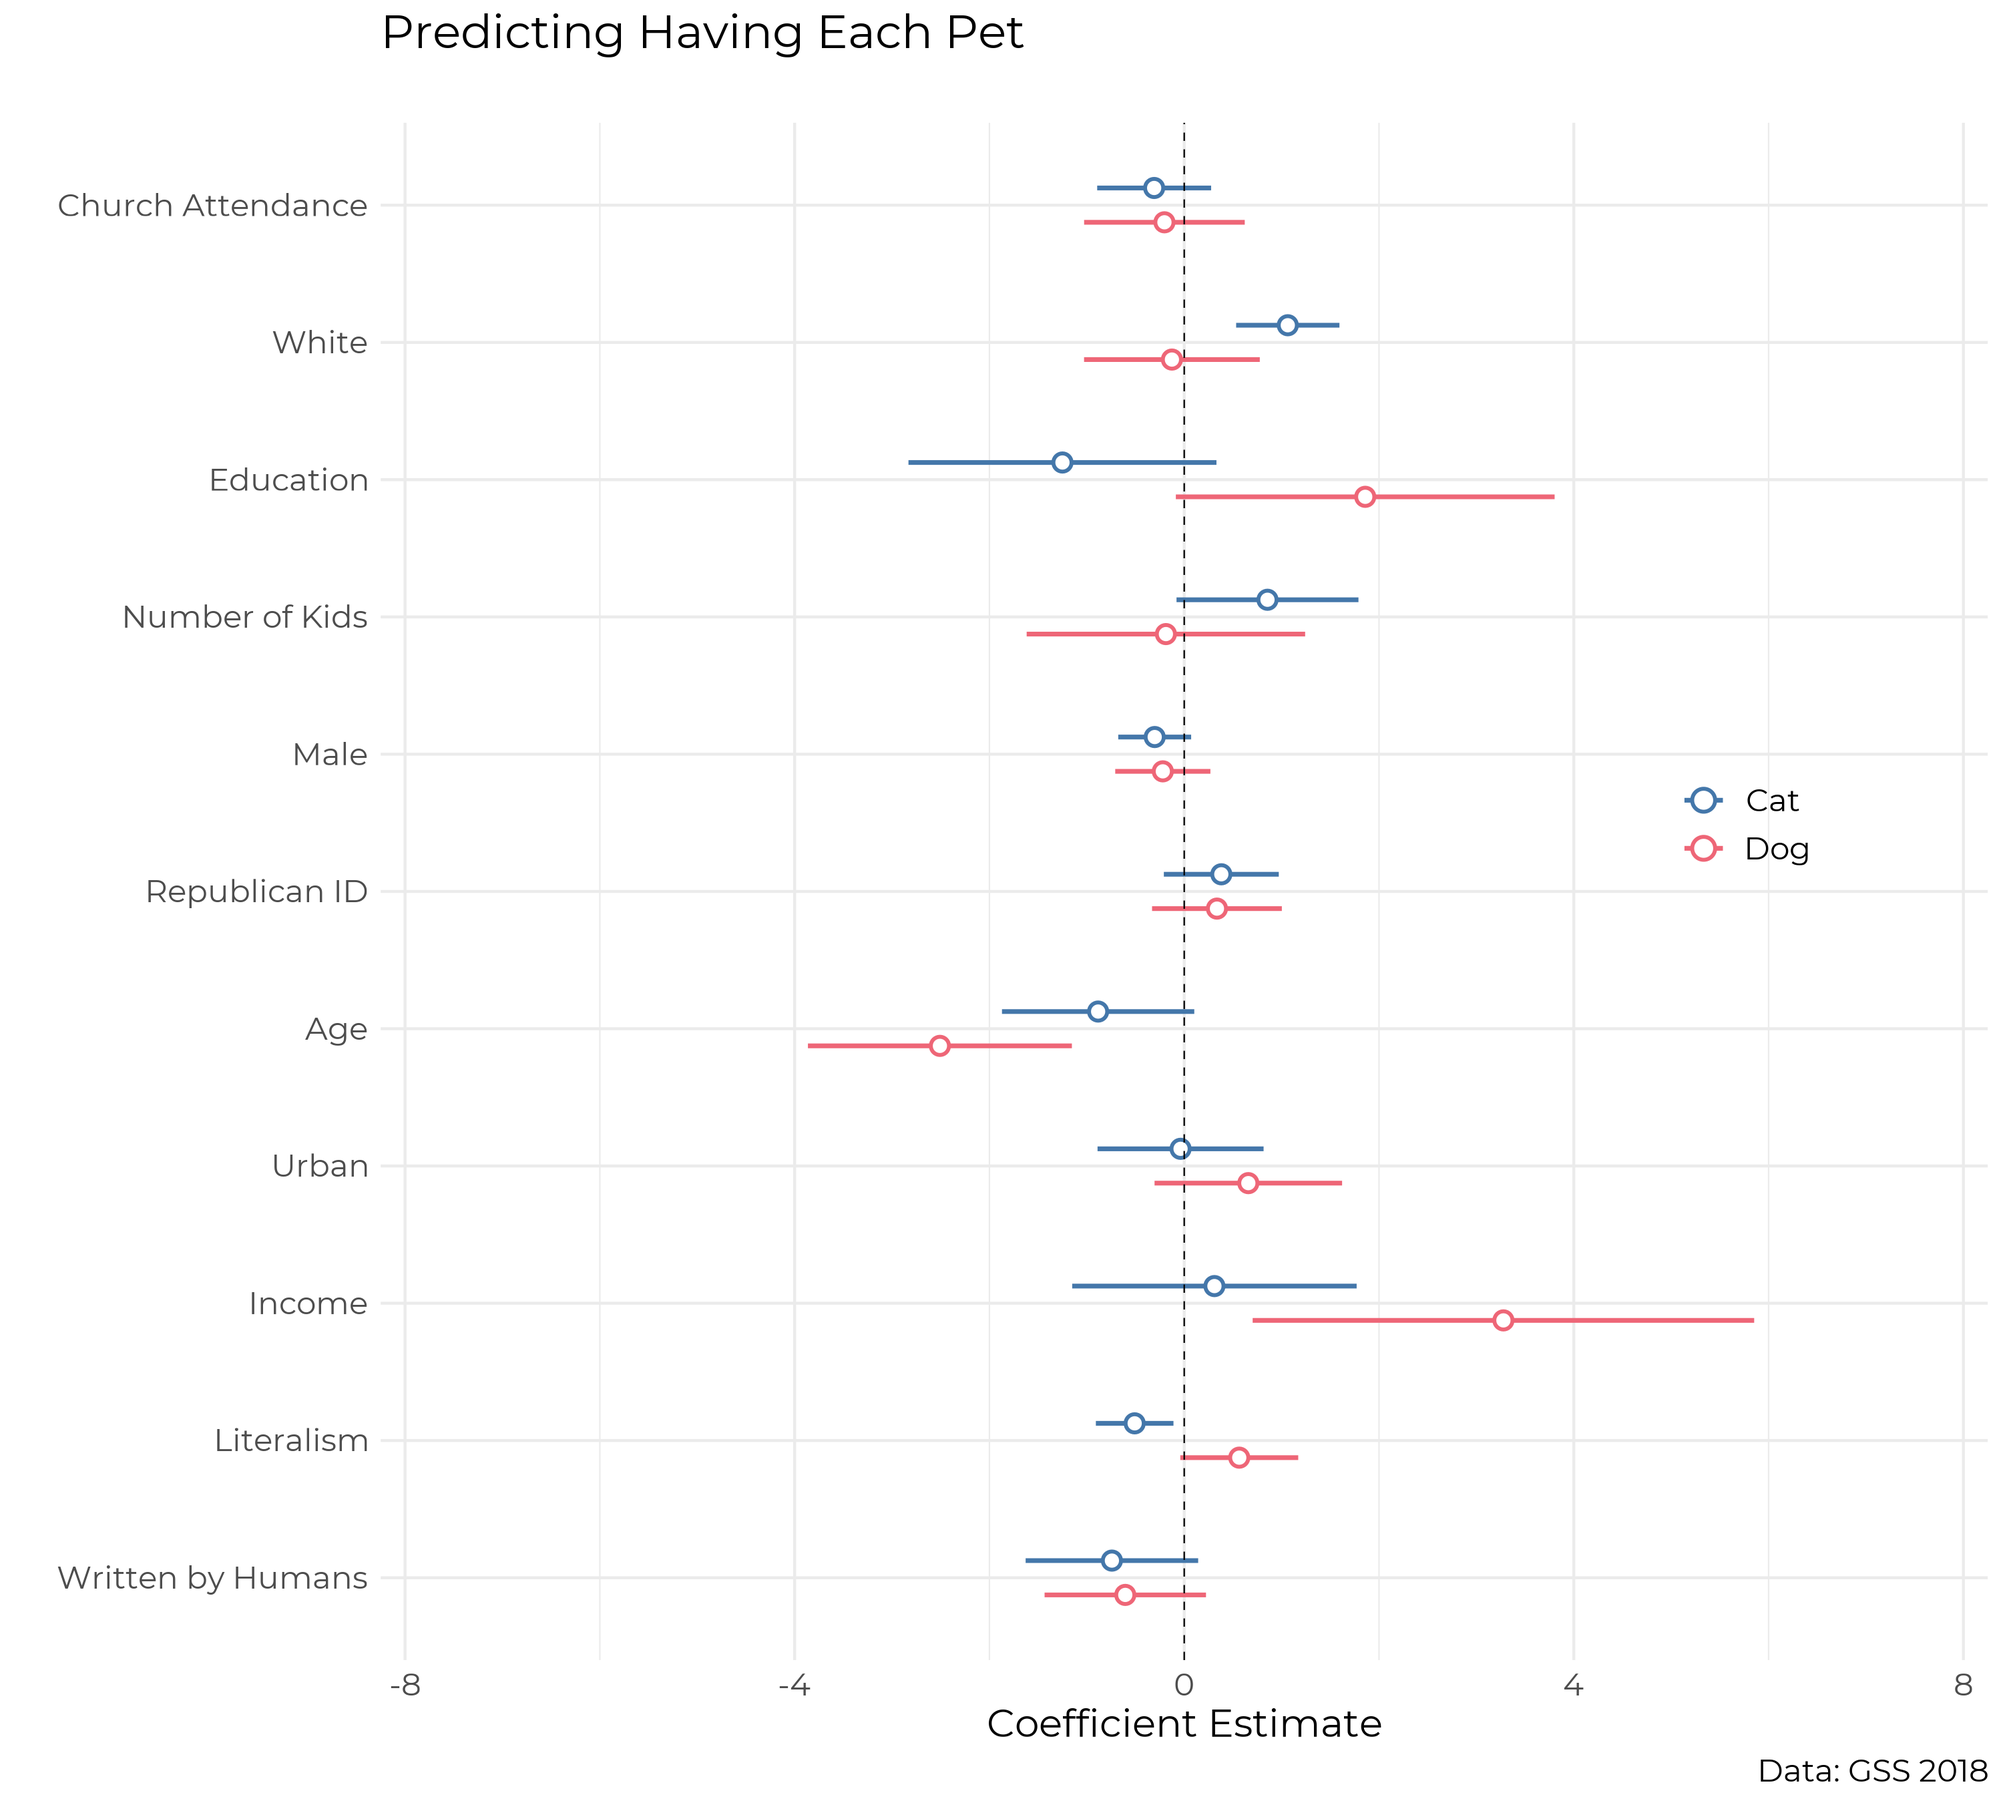
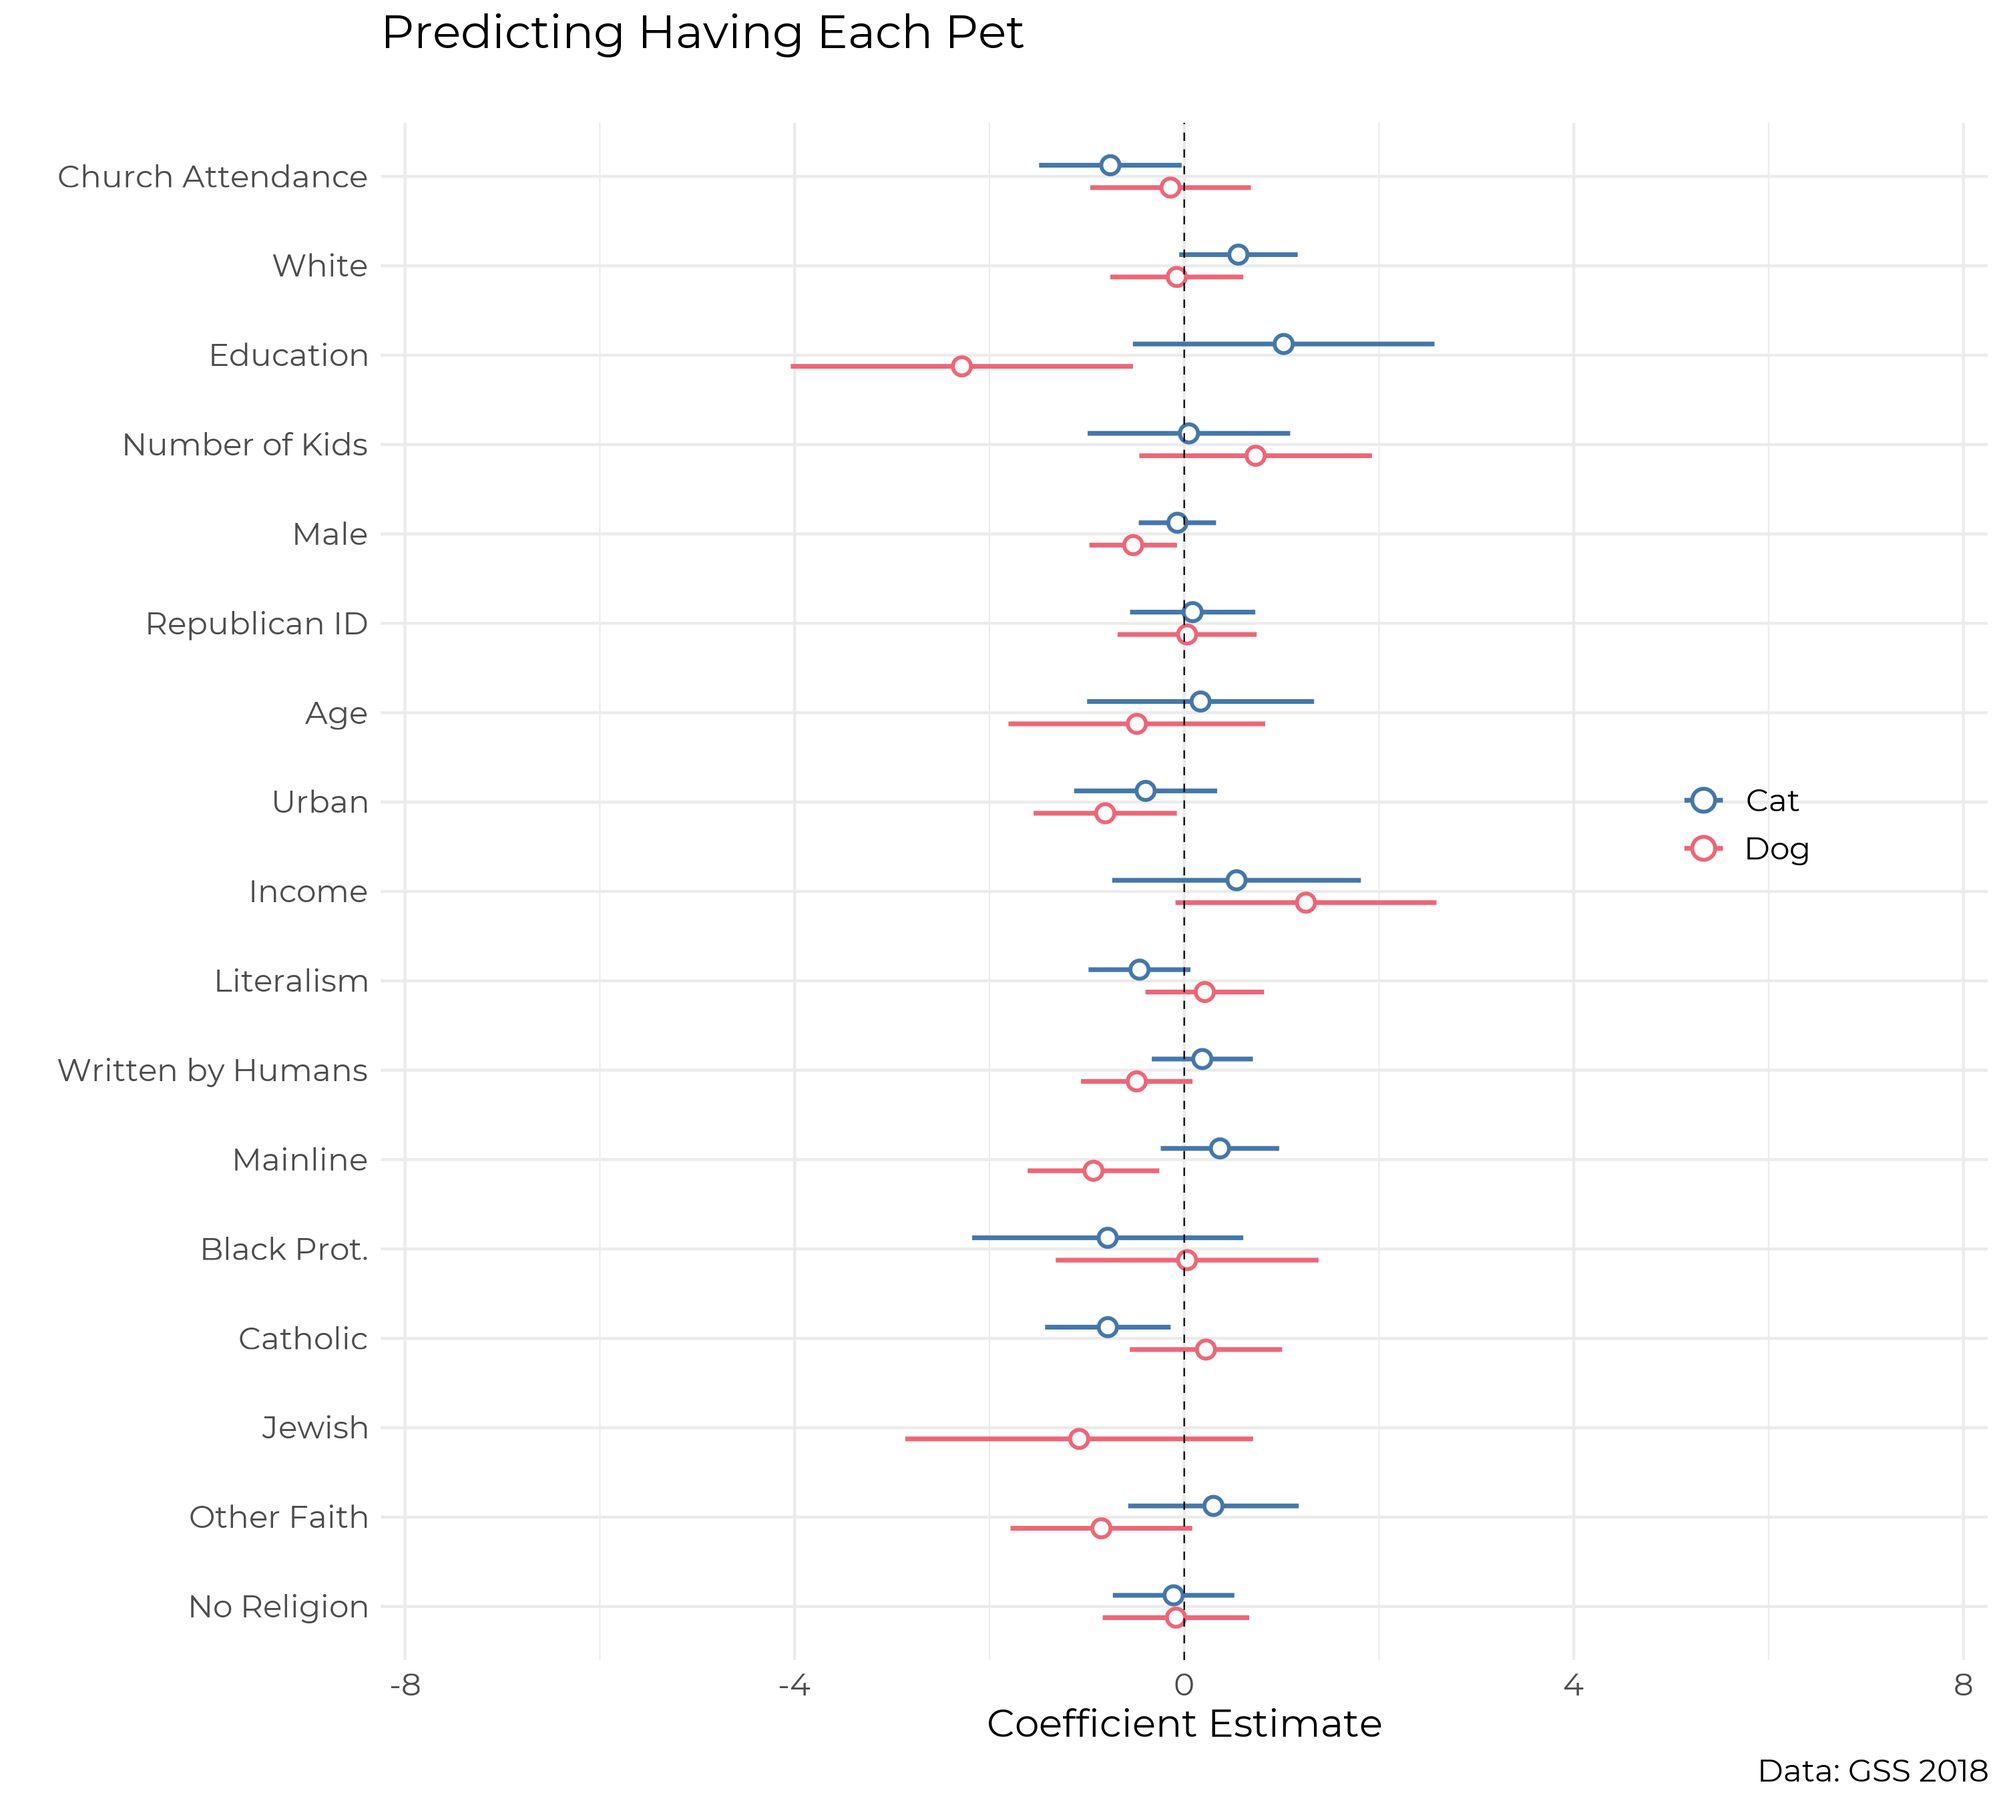
new figs 4

diff --git a/fig4_new.htm b/fig4_new.htm
@@ -1,0 +1,65 @@
+
+<table style="text-align:center"><caption><strong>Figure 4 Regression Model</strong></caption>
+<tr><td colspan="3" style="border-bottom: 1px solid black"></td></tr><tr><td style="text-align:left"></td><td colspan="2"><em>Dependent variable:</em></td></tr>
+<tr><td></td><td colspan="2" style="border-bottom: 1px solid black"></td></tr>
+<tr><td style="text-align:left"></td><td>Cat</td><td>Dog</td></tr>
+<tr><td style="text-align:left"></td><td>(1)</td><td>(2)</td></tr>
+<tr><td colspan="3" style="border-bottom: 1px solid black"></td></tr><tr><td style="text-align:left">Church Attendance</td><td>-0.758<sup>*</sup></td><td>-0.140</td></tr>
+<tr><td style="text-align:left"></td><td>(0.373)</td><td>(0.421)</td></tr>
+<tr><td style="text-align:left"></td><td></td><td></td></tr>
+<tr><td style="text-align:left">White</td><td>0.556</td><td>-0.076</td></tr>
+<tr><td style="text-align:left"></td><td>(0.310)</td><td>(0.348)</td></tr>
+<tr><td style="text-align:left"></td><td></td><td></td></tr>
+<tr><td style="text-align:left">Male</td><td>-0.070</td><td>-0.524<sup>*</sup></td></tr>
+<tr><td style="text-align:left"></td><td>(0.202)</td><td>(0.230)</td></tr>
+<tr><td style="text-align:left"></td><td></td><td></td></tr>
+<tr><td style="text-align:left">Income</td><td>0.537</td><td>1.250</td></tr>
+<tr><td style="text-align:left"></td><td>(0.651)</td><td>(0.684)</td></tr>
+<tr><td style="text-align:left"></td><td></td><td></td></tr>
+<tr><td style="text-align:left">Republican ID</td><td>0.087</td><td>0.030</td></tr>
+<tr><td style="text-align:left"></td><td>(0.328)</td><td>(0.364)</td></tr>
+<tr><td style="text-align:left"></td><td></td><td></td></tr>
+<tr><td style="text-align:left">Number of Kids</td><td>0.048</td><td>0.733</td></tr>
+<tr><td style="text-align:left"></td><td>(0.531)</td><td>(0.609)</td></tr>
+<tr><td style="text-align:left"></td><td></td><td></td></tr>
+<tr><td style="text-align:left">Age</td><td>0.168</td><td>-0.486</td></tr>
+<tr><td style="text-align:left"></td><td>(0.595)</td><td>(0.673)</td></tr>
+<tr><td style="text-align:left"></td><td></td><td></td></tr>
+<tr><td style="text-align:left">Education</td><td>1.021</td><td>-2.283<sup>*</sup></td></tr>
+<tr><td style="text-align:left"></td><td>(0.790)</td><td>(0.897)</td></tr>
+<tr><td style="text-align:left"></td><td></td><td></td></tr>
+<tr><td style="text-align:left">Urban</td><td>-0.396</td><td>-0.811<sup>*</sup></td></tr>
+<tr><td style="text-align:left"></td><td>(0.375)</td><td>(0.375)</td></tr>
+<tr><td style="text-align:left"></td><td></td><td></td></tr>
+<tr><td style="text-align:left">Literalism</td><td>-0.459</td><td>0.211</td></tr>
+<tr><td style="text-align:left"></td><td>(0.267)</td><td>(0.311)</td></tr>
+<tr><td style="text-align:left"></td><td></td><td></td></tr>
+<tr><td style="text-align:left">Written by Humans</td><td>0.186</td><td>-0.488</td></tr>
+<tr><td style="text-align:left"></td><td>(0.265)</td><td>(0.292)</td></tr>
+<tr><td style="text-align:left"></td><td></td><td></td></tr>
+<tr><td style="text-align:left">Mainline</td><td>0.367</td><td>-0.932<sup>*</sup></td></tr>
+<tr><td style="text-align:left"></td><td>(0.310)</td><td>(0.345)</td></tr>
+<tr><td style="text-align:left"></td><td></td><td></td></tr>
+<tr><td style="text-align:left">Black Prot.</td><td>-0.786</td><td>0.029</td></tr>
+<tr><td style="text-align:left"></td><td>(0.710)</td><td>(0.688)</td></tr>
+<tr><td style="text-align:left"></td><td></td><td></td></tr>
+<tr><td style="text-align:left">Catholic</td><td>-0.784<sup>*</sup></td><td>0.223</td></tr>
+<tr><td style="text-align:left"></td><td>(0.329)</td><td>(0.399)</td></tr>
+<tr><td style="text-align:left"></td><td></td><td></td></tr>
+<tr><td style="text-align:left">Jewish</td><td>-15.831</td><td>-1.078</td></tr>
+<tr><td style="text-align:left"></td><td>(571.301)</td><td>(0.911)</td></tr>
+<tr><td style="text-align:left"></td><td></td><td></td></tr>
+<tr><td style="text-align:left">Other Faith</td><td>0.300</td><td>-0.850</td></tr>
+<tr><td style="text-align:left"></td><td>(0.447)</td><td>(0.476)</td></tr>
+<tr><td style="text-align:left"></td><td></td><td></td></tr>
+<tr><td style="text-align:left">No Religion</td><td>-0.109</td><td>-0.085</td></tr>
+<tr><td style="text-align:left"></td><td>(0.318)</td><td>(0.384)</td></tr>
+<tr><td style="text-align:left"></td><td></td><td></td></tr>
+<tr><td style="text-align:left">Constant</td><td>-1.634</td><td>2.366<sup>*</sup></td></tr>
+<tr><td style="text-align:left"></td><td>(0.859)</td><td>(0.945)</td></tr>
+<tr><td style="text-align:left"></td><td></td><td></td></tr>
+<tr><td colspan="3" style="border-bottom: 1px solid black"></td></tr><tr><td style="text-align:left">Observations</td><td>491</td><td>491</td></tr>
+<tr><td style="text-align:left">Log Likelihood</td><td>-303.563</td><td>-251.548</td></tr>
+<tr><td style="text-align:left">Akaike Inf. Crit.</td><td>643.125</td><td>539.096</td></tr>
+<tr><td colspan="3" style="border-bottom: 1px solid black"></td></tr><tr><td style="text-align:left"><em>Note:</em></td><td colspan="2" style="text-align:right"><sup>*</sup>p<0.05; <sup>**</sup>p<[0.**]; <sup>***</sup>p<[0.***]</td></tr>
+</table>
